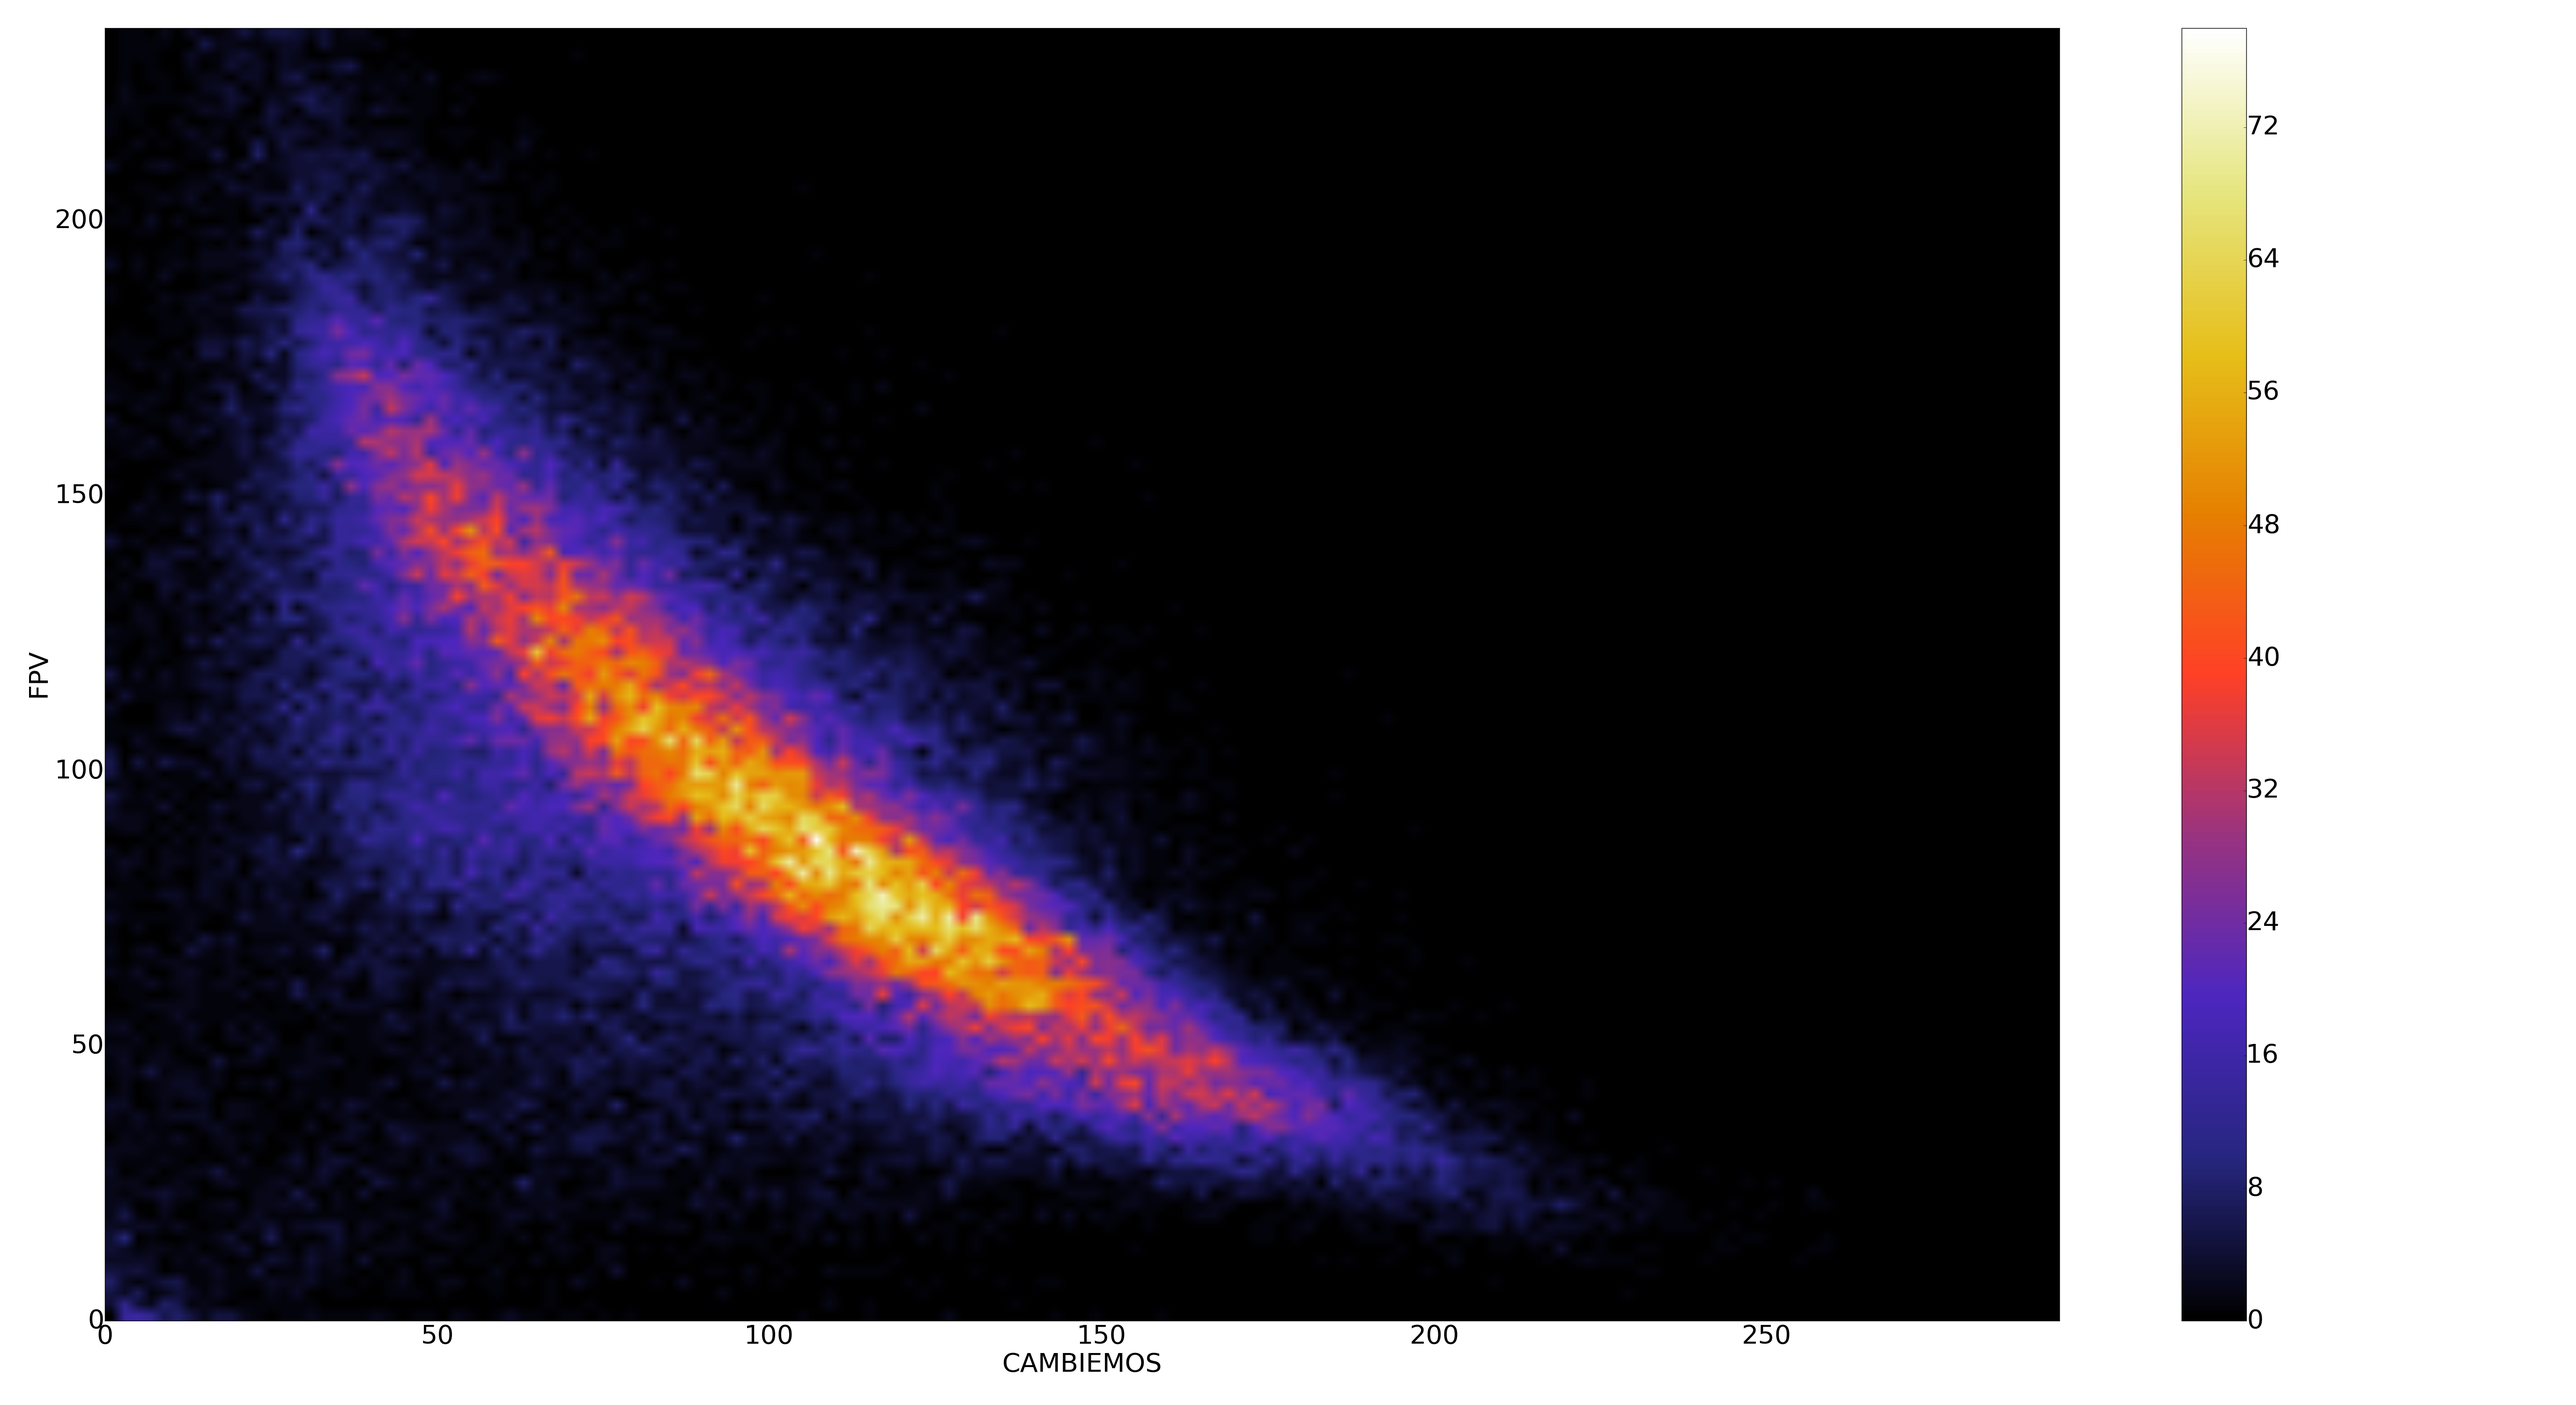
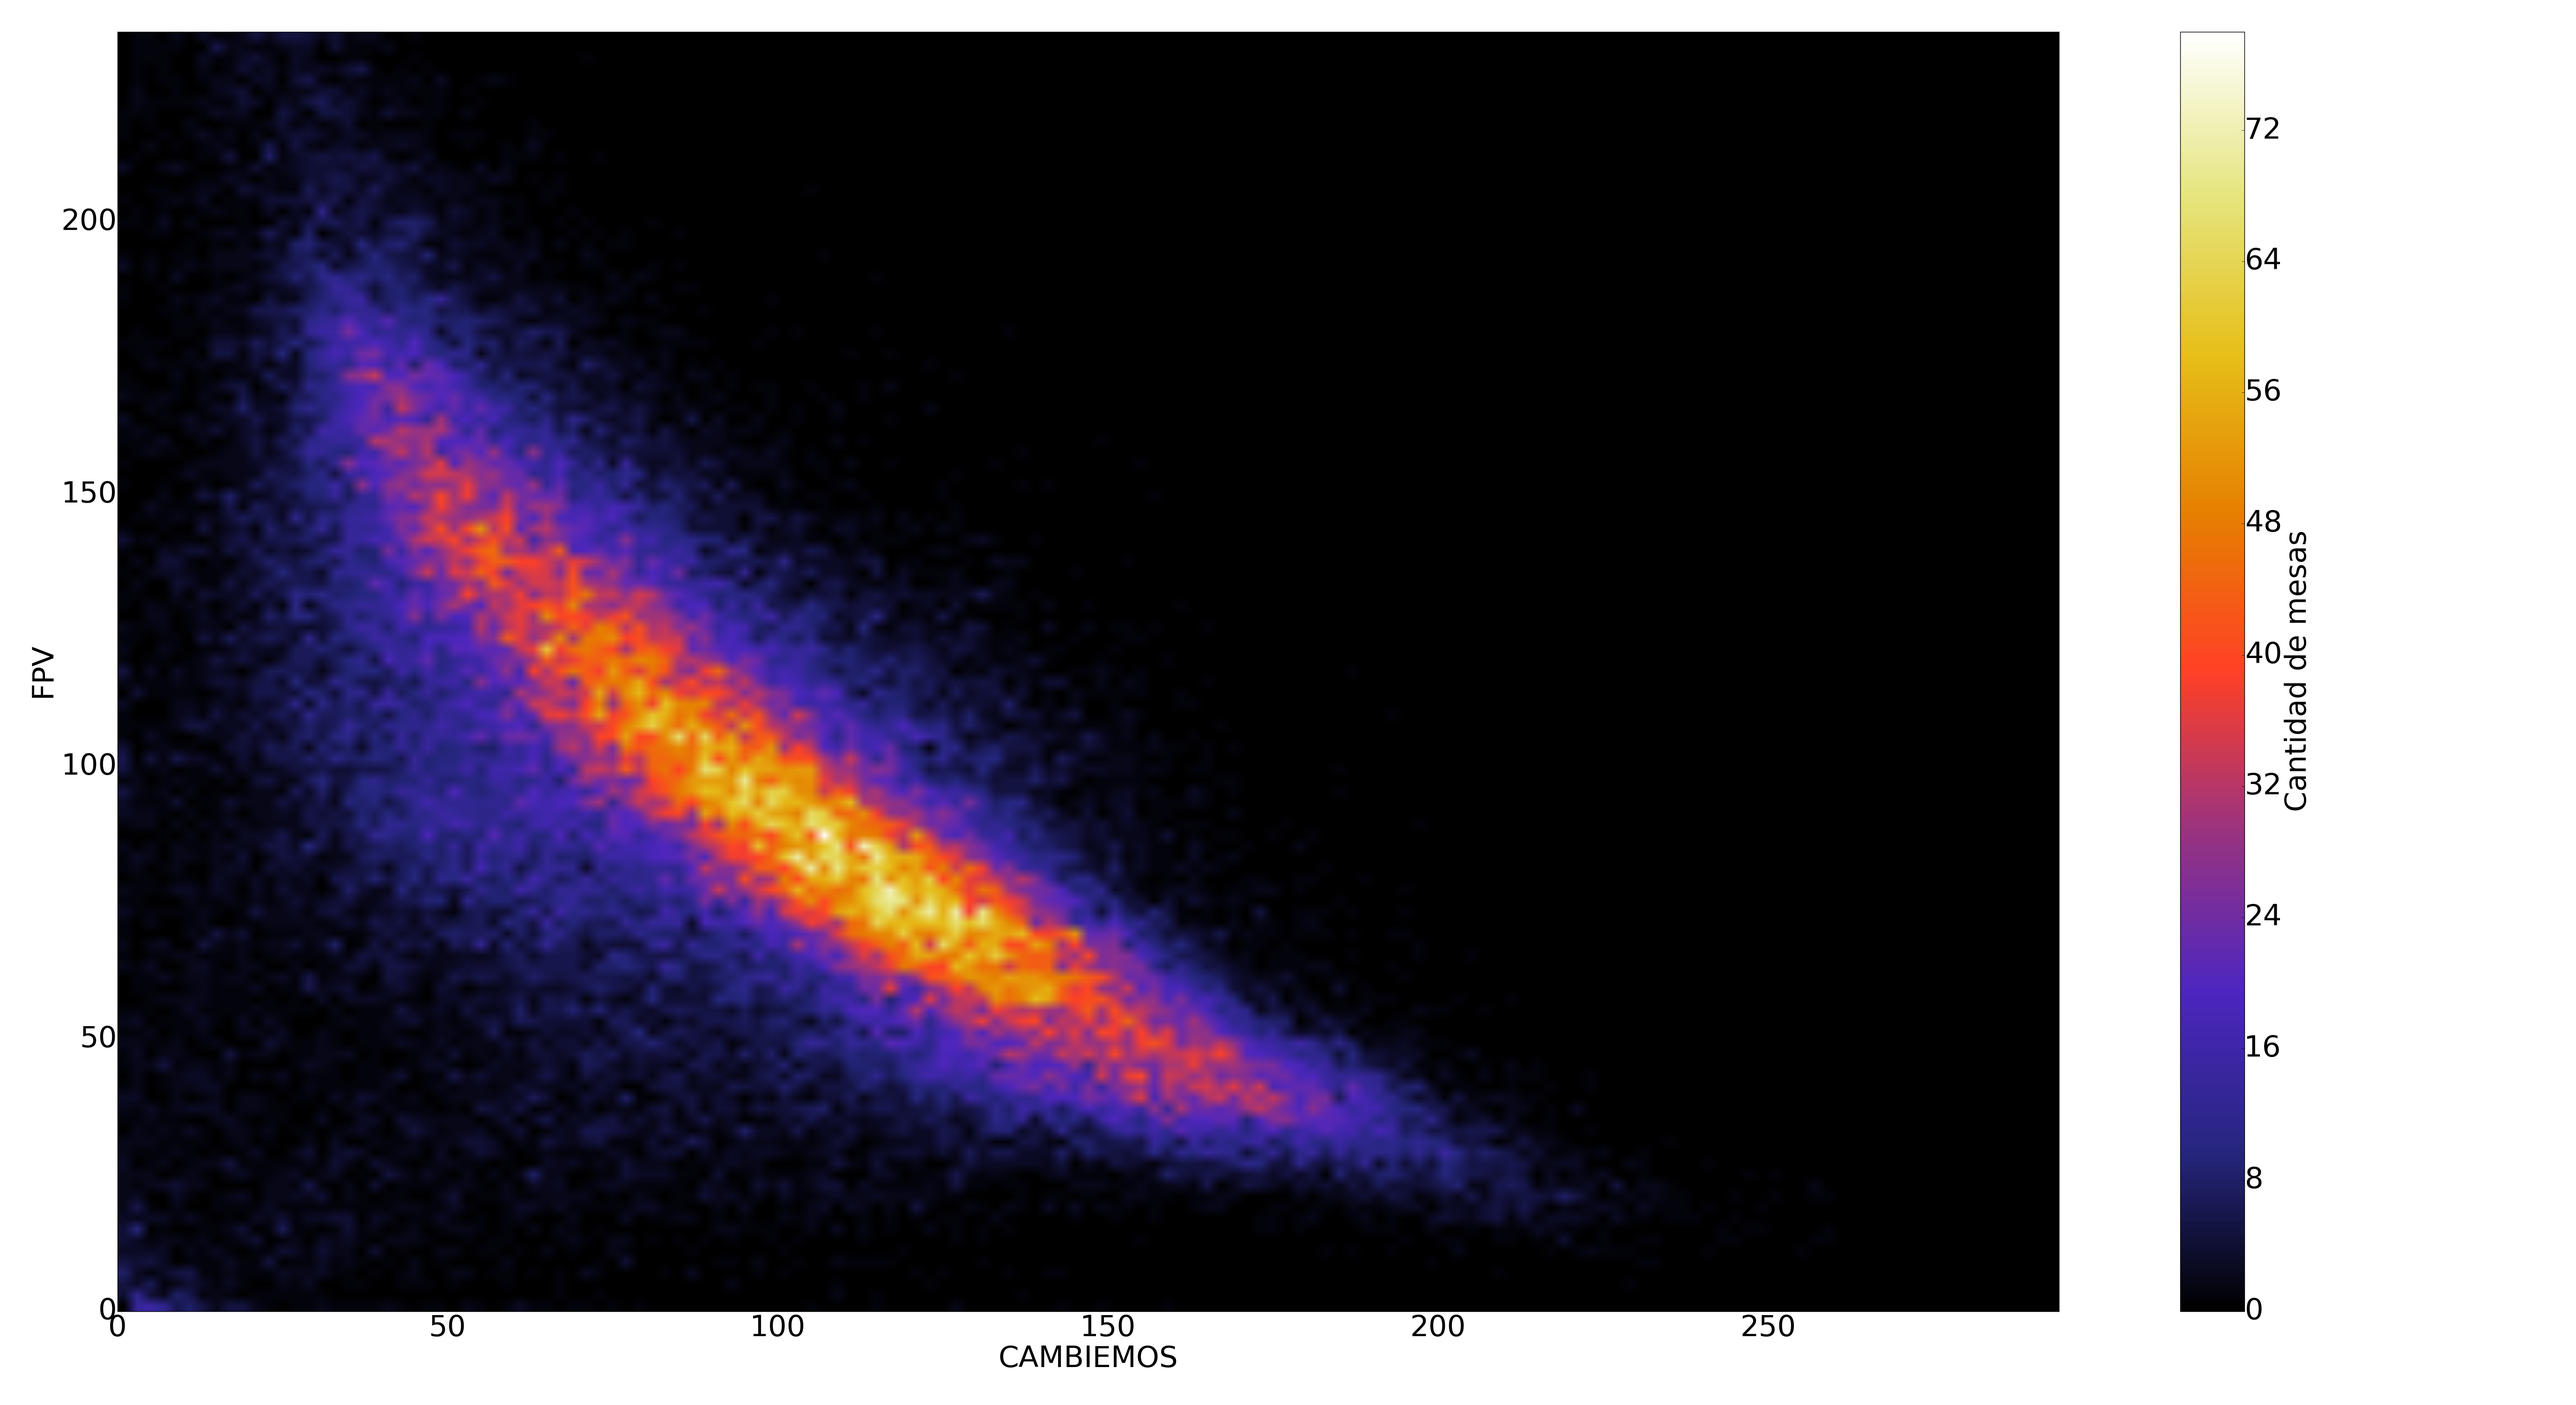
update

diff --git a/index.html b/index.html
@@ -57,7 +57,7 @@
 <p><img alt="" src="./nubes.png" /></p>
 
 <h1>Histogramas de votos para FPV y CAMBIEMOS:</h1>
-
+<p>Los ejes indican cantidad de votos y el código de color indica la cantidad de mesas donde se dio cierta combinación de votos entre una lista y otra</p>
 <p><img alt="" src="./nube_balotaje.png" /></p>
 
 <!-- <a id="welcome-to-github-pages" class="anchor" href="#welcome-to-github-pages" aria-hidden="true"><span class="octicon octicon-link"></span></a>Welcome to GitHub Pages.</h3>
